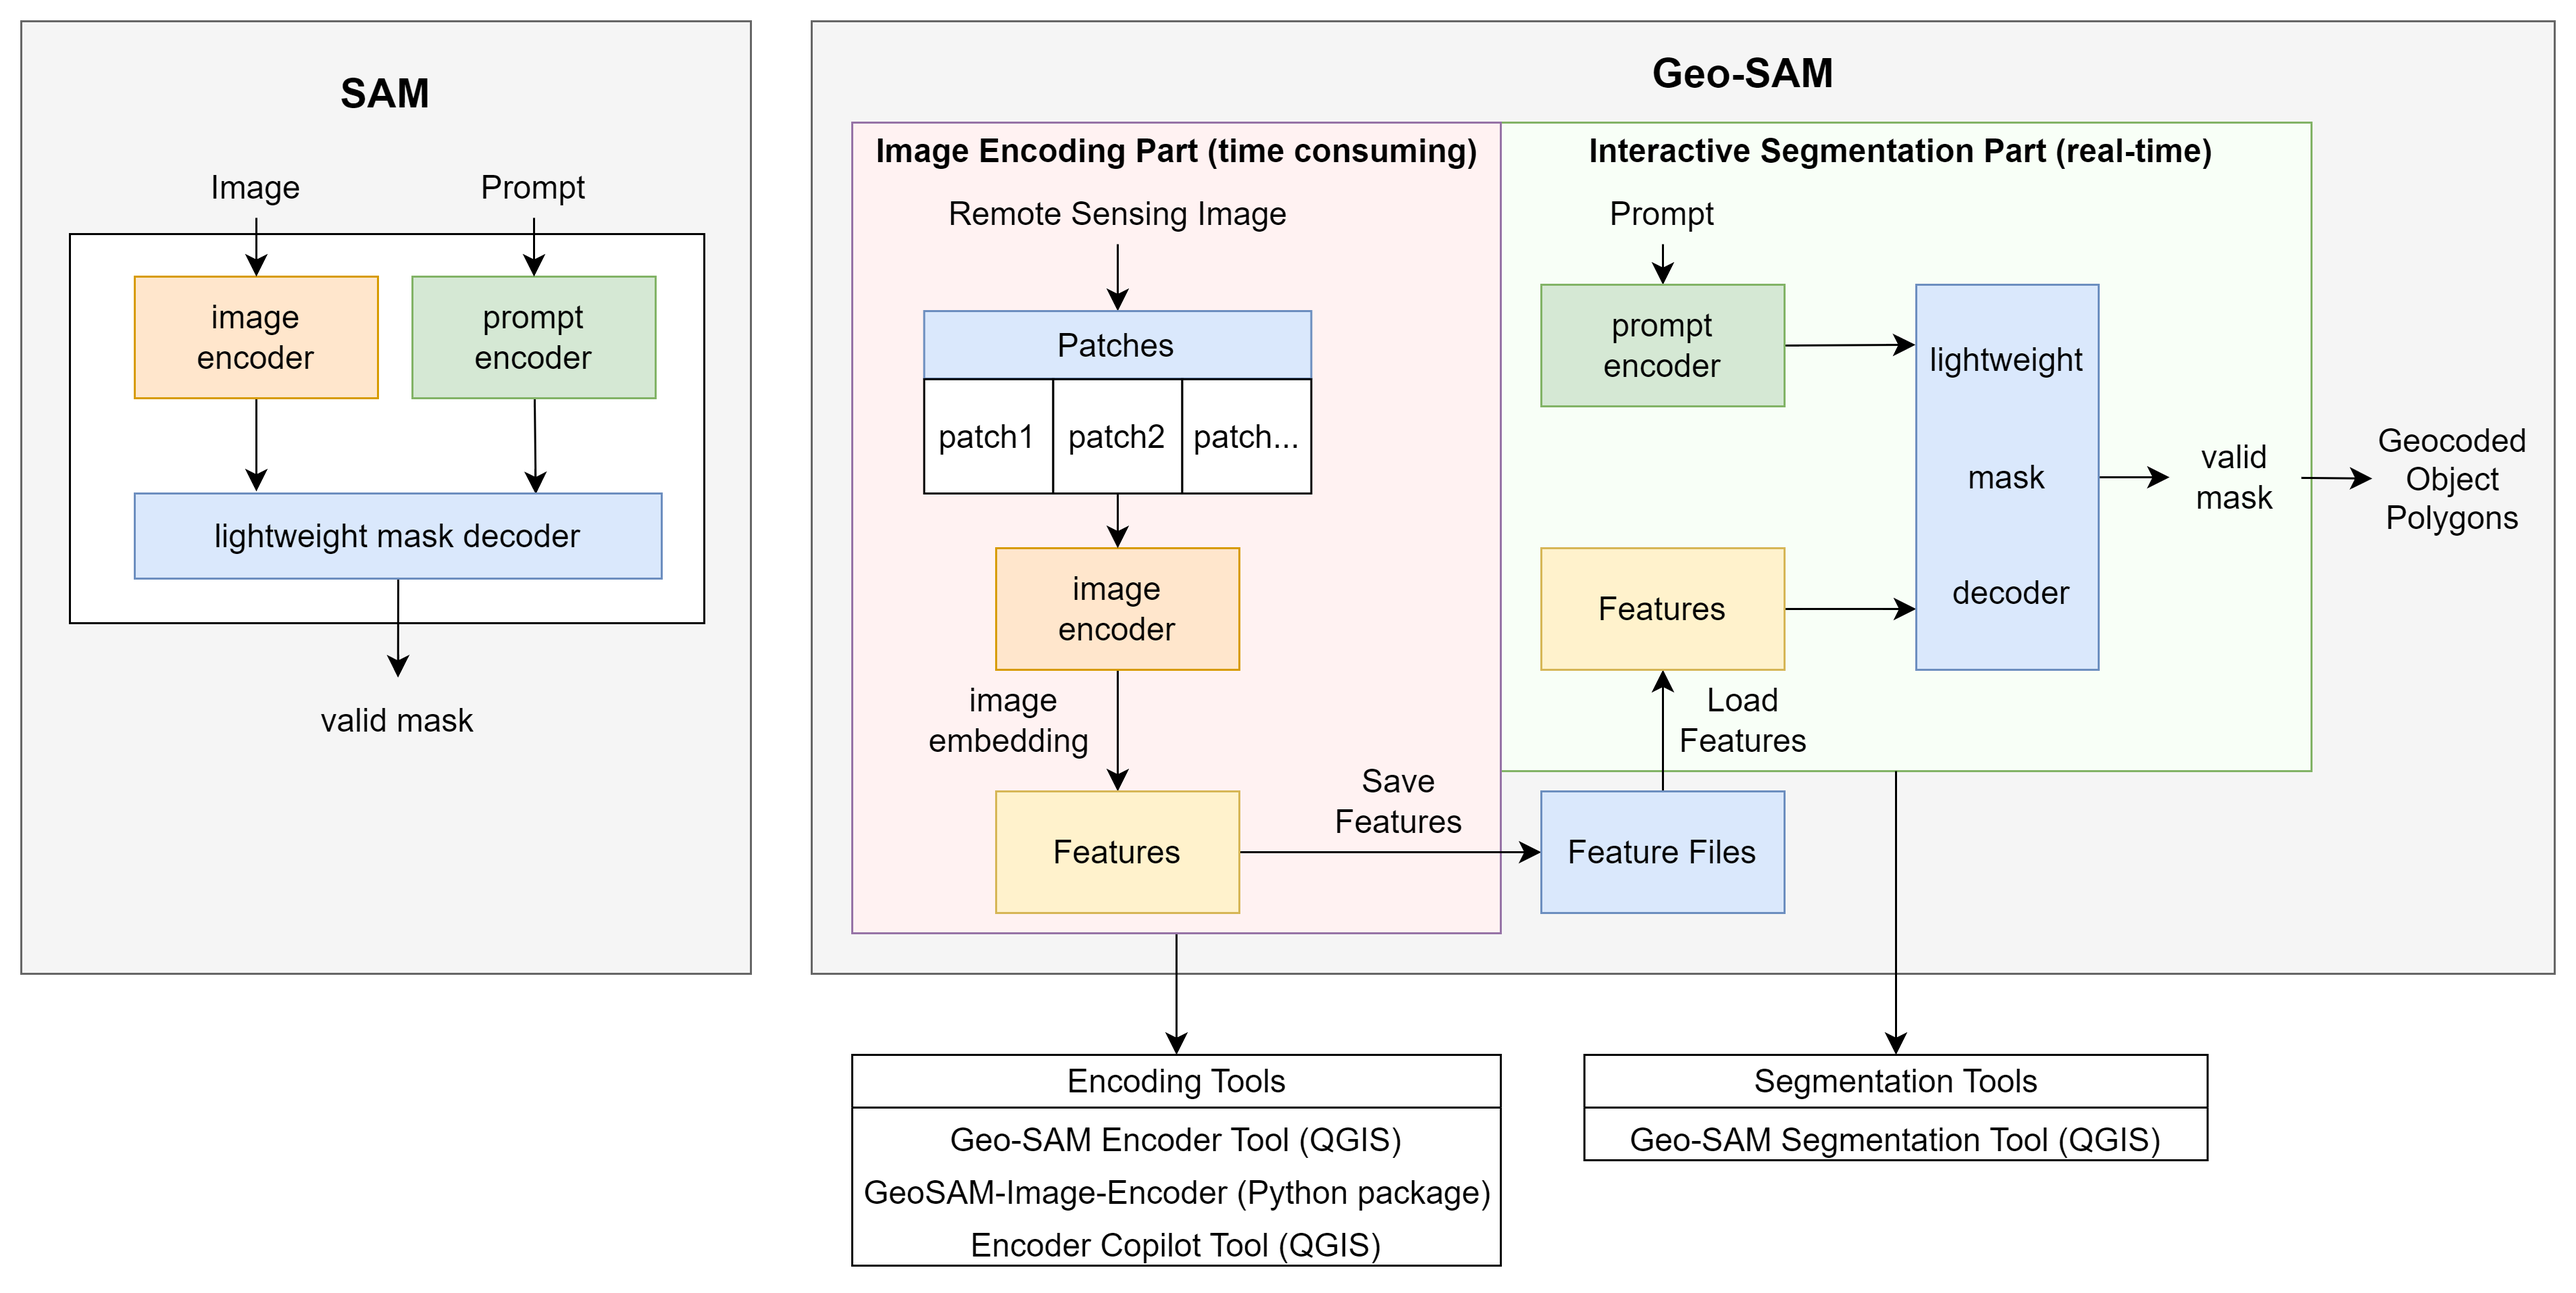
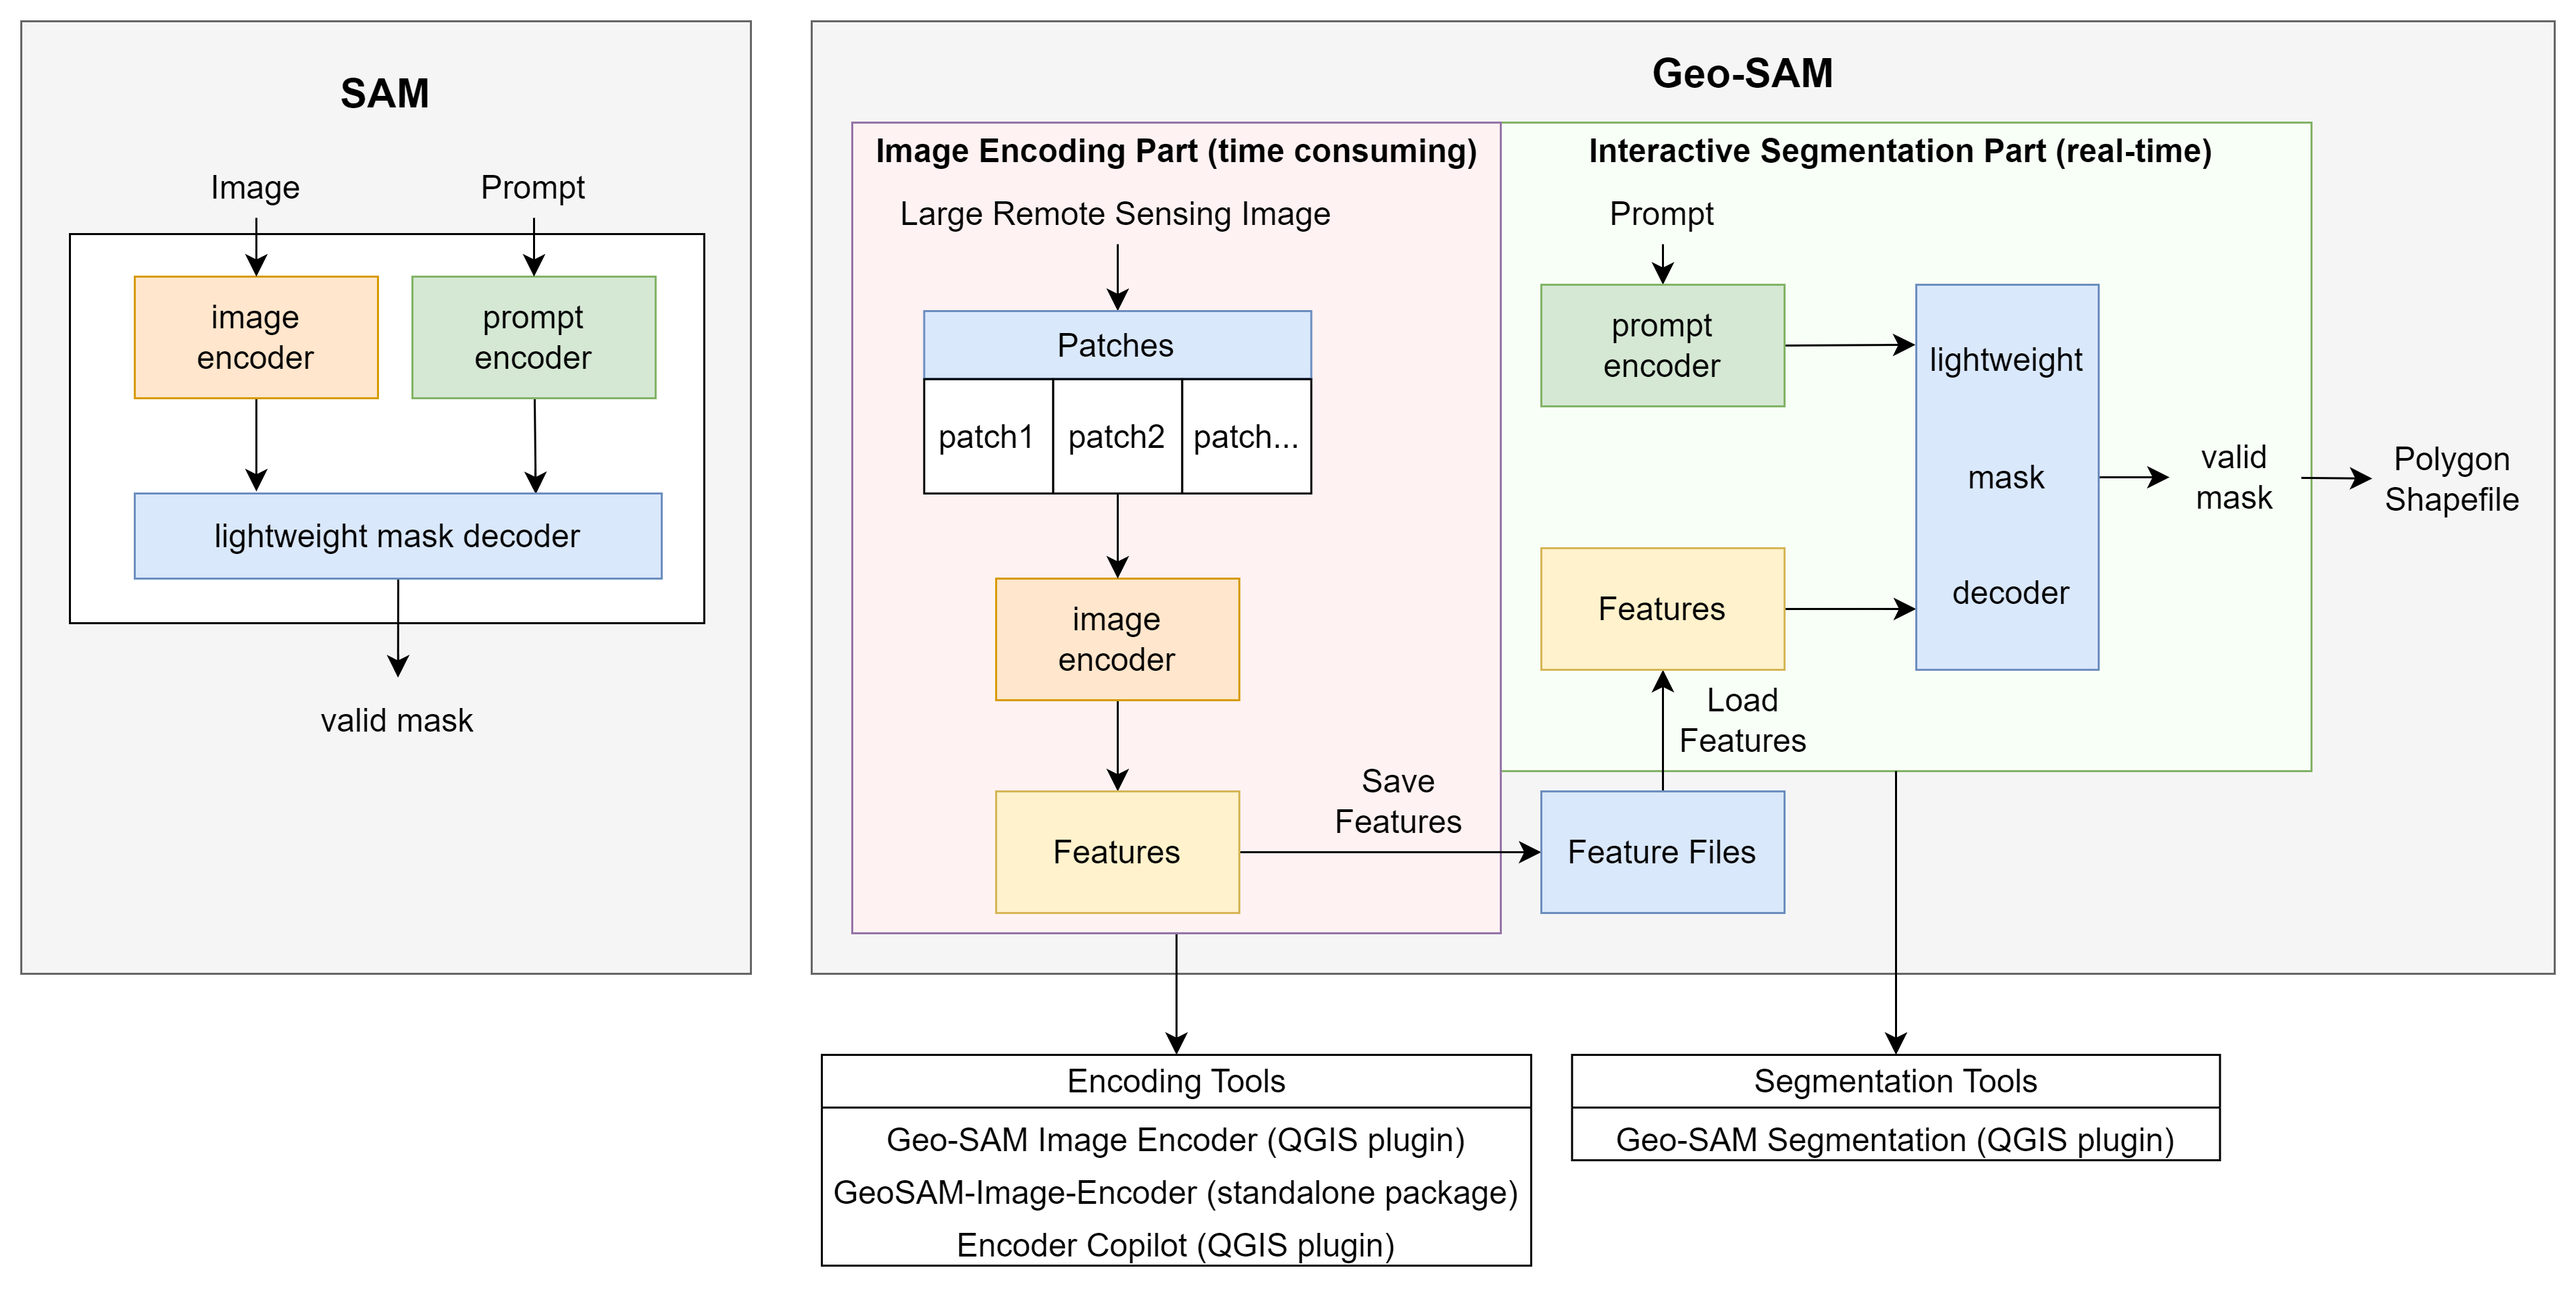
update docs& remove assets folder

diff --git a/docs/source/Usage/copilot.rst b/docs/source/Usage/copilot.rst
@@ -1,17 +1,17 @@
-Encoder Copilot Tool (QGIS)
-============================
+Encoder Copilot (QGIS plugin)
+=============================
 
 Background
 ----------
 
-SAM only supports 1024x1024 pixel image inputs, but the pixels in our remote sensing images are generally much greater than this number. To solve this problem, we split the image into overlapping patches. After the user provides prompts, the patch which center closest to the center of the prompts is selected for SAM execution. However, if the spatial resolution of the image is too high or the area of the land surface objects is too large, 1024x1024 may not be able to cover those objects. To avoid this, the spatial resolution of image needs to be reduced. The ``Encoder Tool`` supports changing the output image resolution, but we usually don't know which value of resolution is appropriate. To allow the user to check in real time whether the patch size covers the desired objects under different resolutions, we designed the ``Encoder Copilot Tool`` to display all patches  under different resolutions and overlaps/strides in real time.
+SAM only supports 1024x1024 pixel image inputs, but the pixels in our remote sensing images are generally much greater than this number. To solve this problem, we split the image into overlapping patches. After the user provides prompts, the patch which center closest to the center of the prompts is selected for SAM execution. However, if the spatial resolution of the image is too high or the area of the land surface objects is too large, 1024x1024 may not be able to cover those objects. To avoid this, the spatial resolution of image needs to be reduced. The ``Geo-SAM Image Encoder`` tool supports changing the output image resolution, but we usually don't know which value of resolution is appropriate. To allow the user to check in real time whether the patch size covers the desired objects under different resolutions, we designed the ``Encoder Copilot`` tool to display all patches under different resolutions and overlaps/strides in real time.
 
 Usage
 -----
 
-Click the ``Encoder Copilot Tool`` icon to open the interactive Encoder Copilot widget. Select the raster and bands you want to encode, and then set the extent to be processed. The extent can be calculated from the layer or drawn directly on the canvas. At this point, adjusting the resolution scale and overlap values will display the corresponding patches situation in real time. 
+Click the ``Encoder Copilot`` icon to open the interactive Encoder Copilot widget. Select the raster and bands you want to encode, and then set the extent to be processed. The extent can be calculated from the layer or drawn directly on the canvas. At this point, adjusting the resolution scale and overlap values will display the corresponding patches situation in real time. 
 
-Besides, ``Encoder Copilot Tool`` also supports direct setting of other parameters. You can specify the path of the SAM model checkpoint, and the model type will be automatically analyzed from the file name. If you change the file name of the checkpoint, the automatically detected model type may not be correct, you need to select it manually in this case. The value range supported by the SAM model is 0-255, but the value range of remote sensing images is usually not within this range. Our tool will automatically detect the value range of the image and stretch it to 0-255. Users can click on the “parse from raster” button in Copilot to directly detect the value range, or manually modify this value. If you do nothing, don’t worry, ``Encoder Tool`` can also automatically detect and stretch the value range.
+Besides, ``Encoder Copilot`` also supports direct setting of other parameters. You can specify the path of the SAM model checkpoint, and the model type will be automatically analyzed from the file name. If you change the file name of the checkpoint, the automatically detected model type may not be correct, you need to select it manually in this case. The value range supported by the SAM model is 0-255, but the value range of remote sensing images is usually not within this range. Our tool will automatically detect the value range of the image and stretch it to 0-255. Users can click on the “parse from raster” button in Copilot to directly detect the value range, or manually modify this value. If you do nothing, don’t worry, ``Geo-SAM Image Encoder`` tool can also automatically detect and stretch the value range.
 
 Export Settings
 ---------------
@@ -19,7 +19,7 @@ Export Settings
 Copy Settings to clipboard
 ~~~~~~~~~~~~~~~~~~~~~~~~~~
 
-When the parameters are determined, the user can directly click the ``Copy Setting`` button in ``Encoder Copilot Tool``. Then click ``Advanced`` -> ``Paste Settings`` in the ``Encoder Tool`` to paste the parameters into the tool.
+When the parameters are determined, the user can directly click the ``Copy Setting`` button in ``Encoder Copilot``. Then click ``Advanced`` -> ``Paste Settings`` in the ``Geo-SAM Image Encoder`` to paste the parameters into the tool.
 
 .. image:: ../img/Paste_Settings.jpg
     :alt: Paste_Settings
@@ -35,12 +35,12 @@ Users can also export the settings to a json file by click ``Export Settings`` b
 Demo Animation
 --------------
 
-The following animation shows how to use the ``Encoder Copilot Tool``.
+The following YouTube video shows how to use the ``Encoder Copilot``.
 
-.. video:: ../_static/EncoderCopilotDemo.mp4
-    :width: 700
-    :preload: metadata
-    :poster: ../_static/EncoderCopilotCover.jpg
+.. image:: ../_static/EncoderCopilotCover.jpg
+    :alt: EncoderCopilotDemo
+    :width: 95%
+    :target: https://youtu.be/NWemi3xcCd0
     
      
 

diff --git a/docs/source/index.rst b/docs/source/index.rst
@@ -12,7 +12,7 @@ By `Joey <https://github.com/coolzhao>`_ and `Fancy <https://github.com/Fancheng
 Introduction
 ------------
 
-Geo-SAM is a QGIS plugin that aims to help people segment, delineate or label landforms efficiently when using large-size geospatial raster images. `Segment Anything Model <https://segment-anything.com/>`_ (SAM) is a foundation AI model with the superpower, but the model size is huge, and using it to process images can take a long time, even with a modern GPU. Our tool uses the strategies of encoding image features in advance and trimming the SAM model. **The interactive segmentation process can be run in real-time on a laptop by only using a CPU**, making it a convenient and efficient tool for dealing with remote sensing images.
+Geo-SAM is a QGIS plugin that aims to help people segment, delineate or label landforms efficiently when using large-size geospatial raster images. `Segment Anything Model <https://segment-anything.com/>`_ (SAM) is a foundation AI model with the superpower, but the model size is huge, and using it to process images can take a long time, even with a modern GPU. Our tool uses the strategies of encoding image features in advance and trimming the SAM model. **The interactive segmentation process can be run in real-time (at** ``millisecond`` **speeds) on a laptop by only using a CPU**, making it a convenient and efficient tool for dealing with remote sensing images.
 
 The Geo-SAM plugin includes two separate parts: the ``Image Encoding Part``, and the ``Interactive Segmentation Part``. The image encoding part is designed to generate and save the image features using the SAM image encoder, and the encoding process only needs to run once per image. The segmentation part is for interactively segmenting landforms, and it can only be used to segment preprocessed images (whose features have been generated in advance using the encoding tool, as the included demo image).
 
@@ -22,12 +22,12 @@ The Geo-SAM plugin includes two separate parts: the ``Image Encoding Part``, and
    :align: center
    :alt: Geo-SAM
 
-   Comparison of the workflow between Geo-SAM and the original SAM. The original SAM model encodes prompts and image simultaneously, while the Geo-SAM model encodes image into feature files at once and queries prompts in real-time by loading those saved features. 
+   Comparison of the workflow between Geo-SAM and the original SAM. The original SAM model encodes prompts and image simultaneously, while the Geo-SAM model encodes image into feature files at once and queries prompts in real-time (at ``millisecond`` speeds) by loading those saved features. 
 
 Reasons for choosing Geo-SAM
 ----------------------------
 
-* Based on QGIS, it has a good GUI interface and cross-platform running capabilities, does not require users to have programming skills.
+* Based on QGIS for a user-friendly GUI and cross-platform compatibility without programming skills needed.
 * It provides segmentation results ``instantly after giving prompts``, and can even display results ``in real-time following the mouse cursor`` (Preview mode, currently only available in the dev version, will be added to the stable version after being rigorously tested). Users can have a smooth, interactive experience.This can greatly improve the efficiency and user experience of segmentation.
 
 

diff --git a/docs/source/Usage/encoding.md b/docs/source/Usage/encoding.md
@@ -1,7 +1,7 @@
 
-# Geo-SAM Encoder Tool (QGIS)
+# Geo-SAM Image Encoder (QGIS plugin)
 
-If you want to try your own images, you can use the `Geo-SAM Encoder Tool`. This tool helps to preprocess geospatial images and generate image features using the SAM image encoder. The generated image features can then be used in our `Geo-SAM Segmentation Tool` to label the landforms by adding points and bounding box prompts.
+If you want to try your own images, you can use the `Geo-SAM Image Encoder` tool. This tool helps to preprocess geospatial images and generate image features using the SAM image encoder. The generated image features can then be used in our `Geo-SAM Segmentation` tool to label the landforms by adding points and bounding box prompts.
 
 ## Download SAM Checkpoints
 
@@ -23,7 +23,7 @@ Since SAM only supports input images with sizes of (1024, 1204), small images wi
 
 ## Demo Animation
 
-The following animation shows how to use the encoder tool.
+The following animation shows how to use the encoding tool.
 
 ```{image} ../img/encoder_demo.gif
 :alt: Try Geo SAM

diff --git a/docs/source/Usage/segmentation.md b/docs/source/Usage/segmentation.md
@@ -1,6 +1,6 @@
-# Geo-SAM Segmentation Tool (QGIS)
+# Geo-SAM Segmentation (QGIS plugin)
 
-Click the `Geo-SAM Segmentation Tool` icon to open the interactive segmentation widget. You will be shown a demo raster image with thaw slump and small pond landforms for you to try the tool. With a single click on the map, a segmentation result will be generated.
+Click the `Geo-SAM Segmentation` icon to open the interactive segmentation widget. You will be shown a demo raster image with thaw slump and small pond landforms for you to try the tool. With a single click on the map, a segmentation result will be generated.
 
 ```{image} ../img/try_geo_sam.gif
 :alt: try_geo_sam

diff --git a/docs/source/future.md b/docs/source/future.md
@@ -1,4 +1,6 @@
 # Future Works
 
 - Support HQ-SAM model
-- Existing polygon refinement
+- Support labeling large objects across patches
+- Add video tutorials for installation and usage
+
